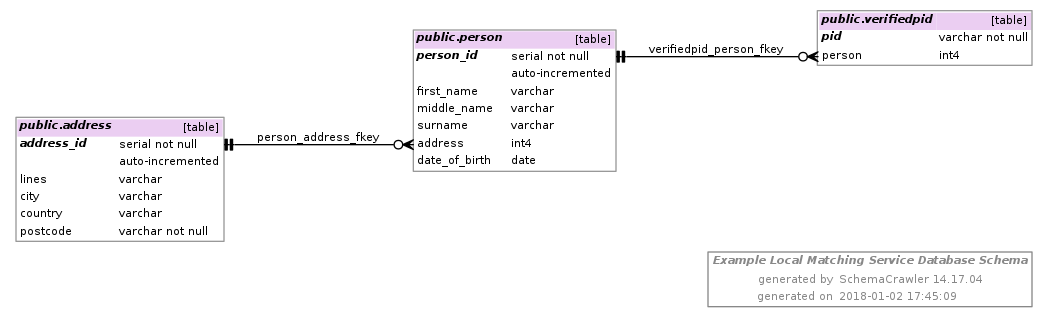
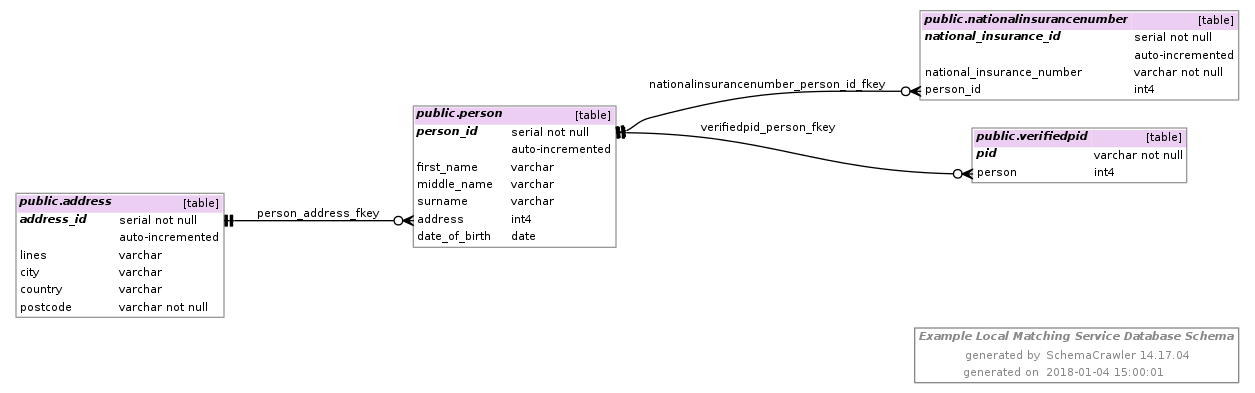
TT-1626 - Updating the schema docs since we added nationalInsurance table for cycle 3 matching
Authors: @SKeerthana

diff --git a/docs/schema.html b/docs/schema.html
@@ -243,24 +243,24 @@ td.section {
 	</tr>
 	<tr>
 		<td class='property_name'>generated on</td>
-		<td class='property_value'>2018-01-02 17:45:08</td>
+		<td class='property_value'>2018-01-04 15:00:00</td>
 	</tr>
 </table>
 <p>&#160;</p>
 
 <p>&#160;</p>
 
-<svg width="786pt" height="238pt"
- viewBox="0.00 0.00 786.00 238.00" xmlns="http://www.w3.org/2000/svg" xmlns:xlink="http://www.w3.org/1999/xlink">
-<g id="graph0" class="graph" transform="scale(1 1) rotate(0) translate(4 234)">
+<svg width="941pt" height="295pt"
+ viewBox="0.00 0.00 941.00 295.00" xmlns="http://www.w3.org/2000/svg" xmlns:xlink="http://www.w3.org/1999/xlink">
+<g id="graph0" class="graph" transform="scale(1 1) rotate(0) translate(4 291)">
 <title>SchemaCrawler_Diagram</title>
-<polygon fill="white" stroke="none" points="-4,4 -4,-234 782,-234 782,4 -4,4"/>
-<text text-anchor="start" x="530.5" y="-36.1" font-family="Helvetica,sans-Serif" font-weight="bold" font-style="italic" font-size="8.00" fill="#888888">Example Local Matching Service Database Schema</text>
-<text text-anchor="start" x="564.5" y="-22.1" font-family="Helvetica,sans-Serif" font-size="8.00" fill="#888888">generated by</text>
-<text text-anchor="start" x="625.5" y="-22.1" font-family="Helvetica,sans-Serif" font-size="8.00" fill="#888888">SchemaCrawler 14.17.04</text>
-<text text-anchor="start" x="563.5" y="-9.1" font-family="Helvetica,sans-Serif" font-size="8.00" fill="#888888">generated on</text>
-<text text-anchor="start" x="625.5" y="-9.1" font-family="Helvetica,sans-Serif" font-size="8.00" fill="#888888">2018&#45;01&#45;02 17:45:08</text>
-<polygon fill="none" stroke="#888888" points="527,-4 527,-45 770,-45 770,-4 527,-4"/>
+<polygon fill="white" stroke="none" points="-4,4 -4,-291 937,-291 937,4 -4,4"/>
+<text text-anchor="start" x="685.5" y="-36.1" font-family="Helvetica,sans-Serif" font-weight="bold" font-style="italic" font-size="8.00" fill="#888888">Example Local Matching Service Database Schema</text>
+<text text-anchor="start" x="719.5" y="-22.1" font-family="Helvetica,sans-Serif" font-size="8.00" fill="#888888">generated by</text>
+<text text-anchor="start" x="780.5" y="-22.1" font-family="Helvetica,sans-Serif" font-size="8.00" fill="#888888">SchemaCrawler 14.17.04</text>
+<text text-anchor="start" x="718.5" y="-9.1" font-family="Helvetica,sans-Serif" font-size="8.00" fill="#888888">generated on</text>
+<text text-anchor="start" x="780.5" y="-9.1" font-family="Helvetica,sans-Serif" font-size="8.00" fill="#888888">2018&#45;01&#45;04 15:00:00</text>
+<polygon fill="none" stroke="#888888" points="682,-4 682,-45 925,-45 925,-4 682,-4"/>
 <!-- address_ad90ab0a -->
 <g id="node1" class="node"><title>address_ad90ab0a</title>
 <polygon fill="white" stroke="none" points="8,-53 8,-146 164,-146 164,-53 8,-53"/>
@@ -327,31 +327,62 @@ td.section {
 <polyline fill="none" stroke="black" points="168,-125.5 172,-125.5 "/>
 <text text-anchor="start" x="189" y="-128.1" font-family="Helvetica,sans-Serif" font-size="8.00">person_address_fkey</text>
 </g>
+<!-- nationalinsurancenumber_d1c885c7 -->
+<g id="node3" class="node"><title>nationalinsurancenumber_d1c885c7</title>
+<polygon fill="white" stroke="none" points="686,-216 686,-283 925,-283 925,-216 686,-216"/>
+<polygon fill="#ebcef2" stroke="none" points="687.5,-268.5 687.5,-281.5 844.5,-281.5 844.5,-268.5 687.5,-268.5"/>
+<text text-anchor="start" x="689.5" y="-274.1" font-family="Helvetica,sans-Serif" font-weight="bold" font-style="italic" font-size="8.00">public.nationalinsurancenumber</text>
+<polygon fill="#ebcef2" stroke="none" points="844.5,-268.5 844.5,-281.5 924.5,-281.5 924.5,-268.5 844.5,-268.5"/>
+<text text-anchor="start" x="894.5" y="-273.1" font-family="Helvetica,sans-Serif" font-size="8.00">[table]</text>
+<text text-anchor="start" x="689.5" y="-261.1" font-family="Helvetica,sans-Serif" font-weight="bold" font-style="italic" font-size="8.00">national_insurance_id</text>
+<text text-anchor="start" x="824.5" y="-260.1" font-family="Helvetica,sans-Serif" font-size="8.00"> </text>
+<text text-anchor="start" x="846.5" y="-260.1" font-family="Helvetica,sans-Serif" font-size="8.00">serial not null</text>
+<text text-anchor="start" x="824.5" y="-247.1" font-family="Helvetica,sans-Serif" font-size="8.00"> </text>
+<text text-anchor="start" x="846.5" y="-247.1" font-family="Helvetica,sans-Serif" font-size="8.00">auto&#45;incremented</text>
+<text text-anchor="start" x="689.5" y="-234.1" font-family="Helvetica,sans-Serif" font-size="8.00">national_insurance_number</text>
+<text text-anchor="start" x="824.5" y="-234.1" font-family="Helvetica,sans-Serif" font-size="8.00"> </text>
+<text text-anchor="start" x="846.5" y="-234.1" font-family="Helvetica,sans-Serif" font-size="8.00">varchar not null</text>
+<text text-anchor="start" x="689.5" y="-221.1" font-family="Helvetica,sans-Serif" font-size="8.00">person_id</text>
+<text text-anchor="start" x="824.5" y="-221.1" font-family="Helvetica,sans-Serif" font-size="8.00"> </text>
+<text text-anchor="start" x="846.5" y="-221.1" font-family="Helvetica,sans-Serif" font-size="8.00">int4</text>
+<polygon fill="none" stroke="#999999" points="686,-216 686,-283 925,-283 925,-216 686,-216"/>
+</g>
+<!-- nationalinsurancenumber_d1c885c7&#45;&gt;person_b6dcaa6b -->
+<g id="edge2" class="edge"><title>nationalinsurancenumber_d1c885c7:person_id_9a22cd5e.start:w&#45;&gt;person_b6dcaa6b:person_id_57933d3a.end:e</title>
+<path fill="none" stroke="black" d="M671.671,-222.524C592.618,-222.76 565.934,-224.228 483,-202.5 474.56,-200.289 471.608,-195.574 466.109,-193.096"/>
+<polygon fill="black" stroke="black" points="678.5,-222.513 686.506,-226.1 682.5,-222.506 686.5,-222.5 686.5,-222.5 686.5,-222.5 682.5,-222.506 686.494,-218.9 678.5,-222.513 678.5,-222.513"/>
+<ellipse fill="none" stroke="black" cx="675.3" cy="-222.518" rx="3.2" ry="3.2"/>
+<polygon fill="black" stroke="black" points="458.012,-195.579 459.558,-187.73 461.127,-188.039 459.582,-195.888 458.012,-195.579"/>
+<polyline fill="none" stroke="black" points="458,-191.5 461.925,-192.273 "/>
+<polygon fill="black" stroke="black" points="461.937,-196.352 463.482,-188.502 465.052,-188.811 463.507,-196.661 461.937,-196.352"/>
+<polyline fill="none" stroke="black" points="461.925,-192.273 465.849,-193.045 "/>
+<text text-anchor="start" x="483" y="-225.1" font-family="Helvetica,sans-Serif" font-size="8.00">nationalinsurancenumber_person_id_fkey</text>
+</g>
 <!-- verifiedpid_62d8ccd9 -->
-<g id="node3" class="node"><title>verifiedpid_62d8ccd9</title>
-<polygon fill="white" stroke="none" points="609,-185 609,-226 770,-226 770,-185 609,-185"/>
-<polygon fill="#ebcef2" stroke="none" points="610.5,-211.5 610.5,-224.5 698.5,-224.5 698.5,-211.5 610.5,-211.5"/>
-<text text-anchor="start" x="612.5" y="-217.1" font-family="Helvetica,sans-Serif" font-weight="bold" font-style="italic" font-size="8.00">public.verifiedpid</text>
-<polygon fill="#ebcef2" stroke="none" points="698.5,-211.5 698.5,-224.5 769.5,-224.5 769.5,-211.5 698.5,-211.5"/>
-<text text-anchor="start" x="739.5" y="-216.1" font-family="Helvetica,sans-Serif" font-size="8.00">[table]</text>
-<text text-anchor="start" x="612.5" y="-204.1" font-family="Helvetica,sans-Serif" font-weight="bold" font-style="italic" font-size="8.00">pid</text>
-<text text-anchor="start" x="669.5" y="-203.1" font-family="Helvetica,sans-Serif" font-size="8.00"> </text>
-<text text-anchor="start" x="700.5" y="-203.1" font-family="Helvetica,sans-Serif" font-size="8.00">varchar not null</text>
-<text text-anchor="start" x="612.5" y="-190.1" font-family="Helvetica,sans-Serif" font-size="8.00">person</text>
-<text text-anchor="start" x="669.5" y="-190.1" font-family="Helvetica,sans-Serif" font-size="8.00"> </text>
-<text text-anchor="start" x="700.5" y="-190.1" font-family="Helvetica,sans-Serif" font-size="8.00">int4</text>
-<polygon fill="none" stroke="#999999" points="609,-185 609,-226 770,-226 770,-185 609,-185"/>
+<g id="node4" class="node"><title>verifiedpid_62d8ccd9</title>
+<polygon fill="white" stroke="none" points="725,-154 725,-195 886,-195 886,-154 725,-154"/>
+<polygon fill="#ebcef2" stroke="none" points="726.5,-180.5 726.5,-193.5 814.5,-193.5 814.5,-180.5 726.5,-180.5"/>
+<text text-anchor="start" x="728.5" y="-186.1" font-family="Helvetica,sans-Serif" font-weight="bold" font-style="italic" font-size="8.00">public.verifiedpid</text>
+<polygon fill="#ebcef2" stroke="none" points="814.5,-180.5 814.5,-193.5 885.5,-193.5 885.5,-180.5 814.5,-180.5"/>
+<text text-anchor="start" x="855.5" y="-185.1" font-family="Helvetica,sans-Serif" font-size="8.00">[table]</text>
+<text text-anchor="start" x="728.5" y="-173.1" font-family="Helvetica,sans-Serif" font-weight="bold" font-style="italic" font-size="8.00">pid</text>
+<text text-anchor="start" x="785.5" y="-172.1" font-family="Helvetica,sans-Serif" font-size="8.00"> </text>
+<text text-anchor="start" x="816.5" y="-172.1" font-family="Helvetica,sans-Serif" font-size="8.00">varchar not null</text>
+<text text-anchor="start" x="728.5" y="-159.1" font-family="Helvetica,sans-Serif" font-size="8.00">person</text>
+<text text-anchor="start" x="785.5" y="-159.1" font-family="Helvetica,sans-Serif" font-size="8.00"> </text>
+<text text-anchor="start" x="816.5" y="-159.1" font-family="Helvetica,sans-Serif" font-size="8.00">int4</text>
+<polygon fill="none" stroke="#999999" points="725,-154 725,-195 886,-195 886,-154 725,-154"/>
 </g>
 <!-- verifiedpid_62d8ccd9&#45;&gt;person_b6dcaa6b -->
-<g id="edge2" class="edge"><title>verifiedpid_62d8ccd9:person_bd24699c.start:w&#45;&gt;person_b6dcaa6b:person_id_57933d3a.end:e</title>
-<path fill="none" stroke="black" d="M594.948,-191.5C541.809,-191.5 521.995,-191.5 466.129,-191.5"/>
-<polygon fill="black" stroke="black" points="601.5,-191.5 609.5,-195.1 605.5,-191.5 609.5,-191.5 609.5,-191.5 609.5,-191.5 605.5,-191.5 609.5,-187.9 601.5,-191.5 601.5,-191.5"/>
-<ellipse fill="none" stroke="black" cx="598.3" cy="-191.5" rx="3.2" ry="3.2"/>
-<polygon fill="black" stroke="black" points="458.8,-195.5 458.8,-187.5 460.4,-187.5 460.4,-195.5 458.8,-195.5"/>
-<polyline fill="none" stroke="black" points="458,-191.5 462,-191.5 "/>
-<polygon fill="black" stroke="black" points="462.8,-195.5 462.8,-187.5 464.4,-187.5 464.4,-195.5 462.8,-195.5"/>
-<polyline fill="none" stroke="black" points="462,-191.5 466,-191.5 "/>
-<text text-anchor="start" x="483" y="-194.1" font-family="Helvetica,sans-Serif" font-size="8.00">verifiedpid_person_fkey</text>
+<g id="edge3" class="edge"><title>verifiedpid_62d8ccd9:person_bd24699c.start:w&#45;&gt;person_b6dcaa6b:person_id_57933d3a.end:e</title>
+<path fill="none" stroke="black" d="M710.893,-160.659C605.918,-162.991 574.2,-190.126 466.25,-191.45"/>
+<polygon fill="black" stroke="black" points="717.5,-160.587 725.539,-164.1 721.5,-160.544 725.5,-160.5 725.5,-160.5 725.5,-160.5 721.5,-160.544 725.461,-156.9 717.5,-160.587 717.5,-160.587"/>
+<ellipse fill="none" stroke="black" cx="714.301" cy="-160.622" rx="3.2" ry="3.2"/>
+<polygon fill="black" stroke="black" points="458.824,-195.495 458.776,-187.495 460.376,-187.485 460.424,-195.485 458.824,-195.495"/>
+<polyline fill="none" stroke="black" points="458,-191.5 462,-191.476 "/>
+<polygon fill="black" stroke="black" points="462.824,-195.471 462.776,-187.471 464.376,-187.461 464.424,-195.461 462.824,-195.471"/>
+<polyline fill="none" stroke="black" points="462,-191.476 466,-191.451 "/>
+<text text-anchor="start" x="521.5" y="-193.1" font-family="Helvetica,sans-Serif" font-size="8.00">verifiedpid_person_fkey</text>
 </g>
 </g>
 </svg>
@@ -440,6 +471,75 @@ td.section {
 
 
 <table>
+  <caption style='background-color: #EBCEF2;'><span id='nationalinsurancenumber_d1c885c7' class='caption_name'>public.nationalinsurancenumber</span> <span class='caption_description'>[table]</span></caption>
+
+	<tr>
+		<td class='spacer'></td>
+		<td class='minwidth'><b><i>national_insurance_id</i></b></td>
+		<td class='minwidth'>serial not null</td>
+	</tr>
+	<tr>
+		<td class='spacer'></td>
+		<td class='minwidth'></td>
+		<td class='minwidth'>auto-incremented</td>
+	</tr>
+	<tr>
+		<td class='spacer'></td>
+		<td class='minwidth'>national_insurance_number</td>
+		<td class='minwidth'>varchar not null</td>
+	</tr>
+	<tr>
+		<td class='spacer'></td>
+		<td class='minwidth'>person_id</td>
+		<td class='minwidth'>int4</td>
+	</tr>
+	<tr>
+		<td colspan='3'></td>
+	</tr>
+	<tr>
+		<td colspan='3' class='section'>Primary Key</td>
+	</tr>
+	<tr>
+		<td colspan='3'></td>
+	</tr>
+	<tr>
+		<td colspan='2' class='name'>nationalinsurancenumber_pkey</td>
+		<td class='description right'>[primary key]</td>
+	</tr>
+	<tr>
+		<td class='spacer'></td>
+		<td class='minwidth'>national_insurance_id</td>
+		<td class='minwidth'>ascending</td>
+	</tr>
+	<tr>
+		<td class='spacer'></td>
+		<td class='minwidth'></td>
+		<td class='minwidth'>auto-incremented</td>
+	</tr>
+	<tr>
+		<td colspan='3'></td>
+	</tr>
+	<tr>
+		<td colspan='3' class='section'>Foreign Keys</td>
+	</tr>
+	<tr>
+		<td colspan='3'></td>
+	</tr>
+	<tr>
+		<td colspan='2' class='name'>nationalinsurancenumber_person_id_fkey</td>
+		<td class='description right'>[foreign key, with no action]</td>
+	</tr>
+	<tr>
+		<td class='spacer'></td>
+		<td class='minwidth'>person_id (0..many)→ <a href='#person_b6dcaa6b'>public.person.person_id</a></td>
+		<td class='minwidth'></td>
+	</tr>
+</table>
+<p>&#160;</p>
+
+
+
+<table>
   <caption style='background-color: #EBCEF2;'><span id='person_b6dcaa6b' class='caption_name'>public.person</span> <span class='caption_description'>[table]</span></caption>
 
 	<tr>
@@ -516,6 +616,18 @@ td.section {
 	<tr>
 		<td class='spacer'></td>
 		<td class='minwidth'>address (0..many)→ <a href='#address_ad90ab0a'>public.address.address_id</a></td>
+		<td class='minwidth'></td>
+	</tr>
+	<tr>
+		<td colspan='3'></td>
+	</tr>
+	<tr>
+		<td colspan='2' class='name'>nationalinsurancenumber_person_id_fkey</td>
+		<td class='description right'>[foreign key, with no action]</td>
+	</tr>
+	<tr>
+		<td class='spacer'></td>
+		<td class='minwidth'>person_id ←(0..many) <a href='#nationalinsurancenumber_d1c885c7'>public.nationalinsurancenumber.person_id</a></td>
 		<td class='minwidth'></td>
 	</tr>
 	<tr>
